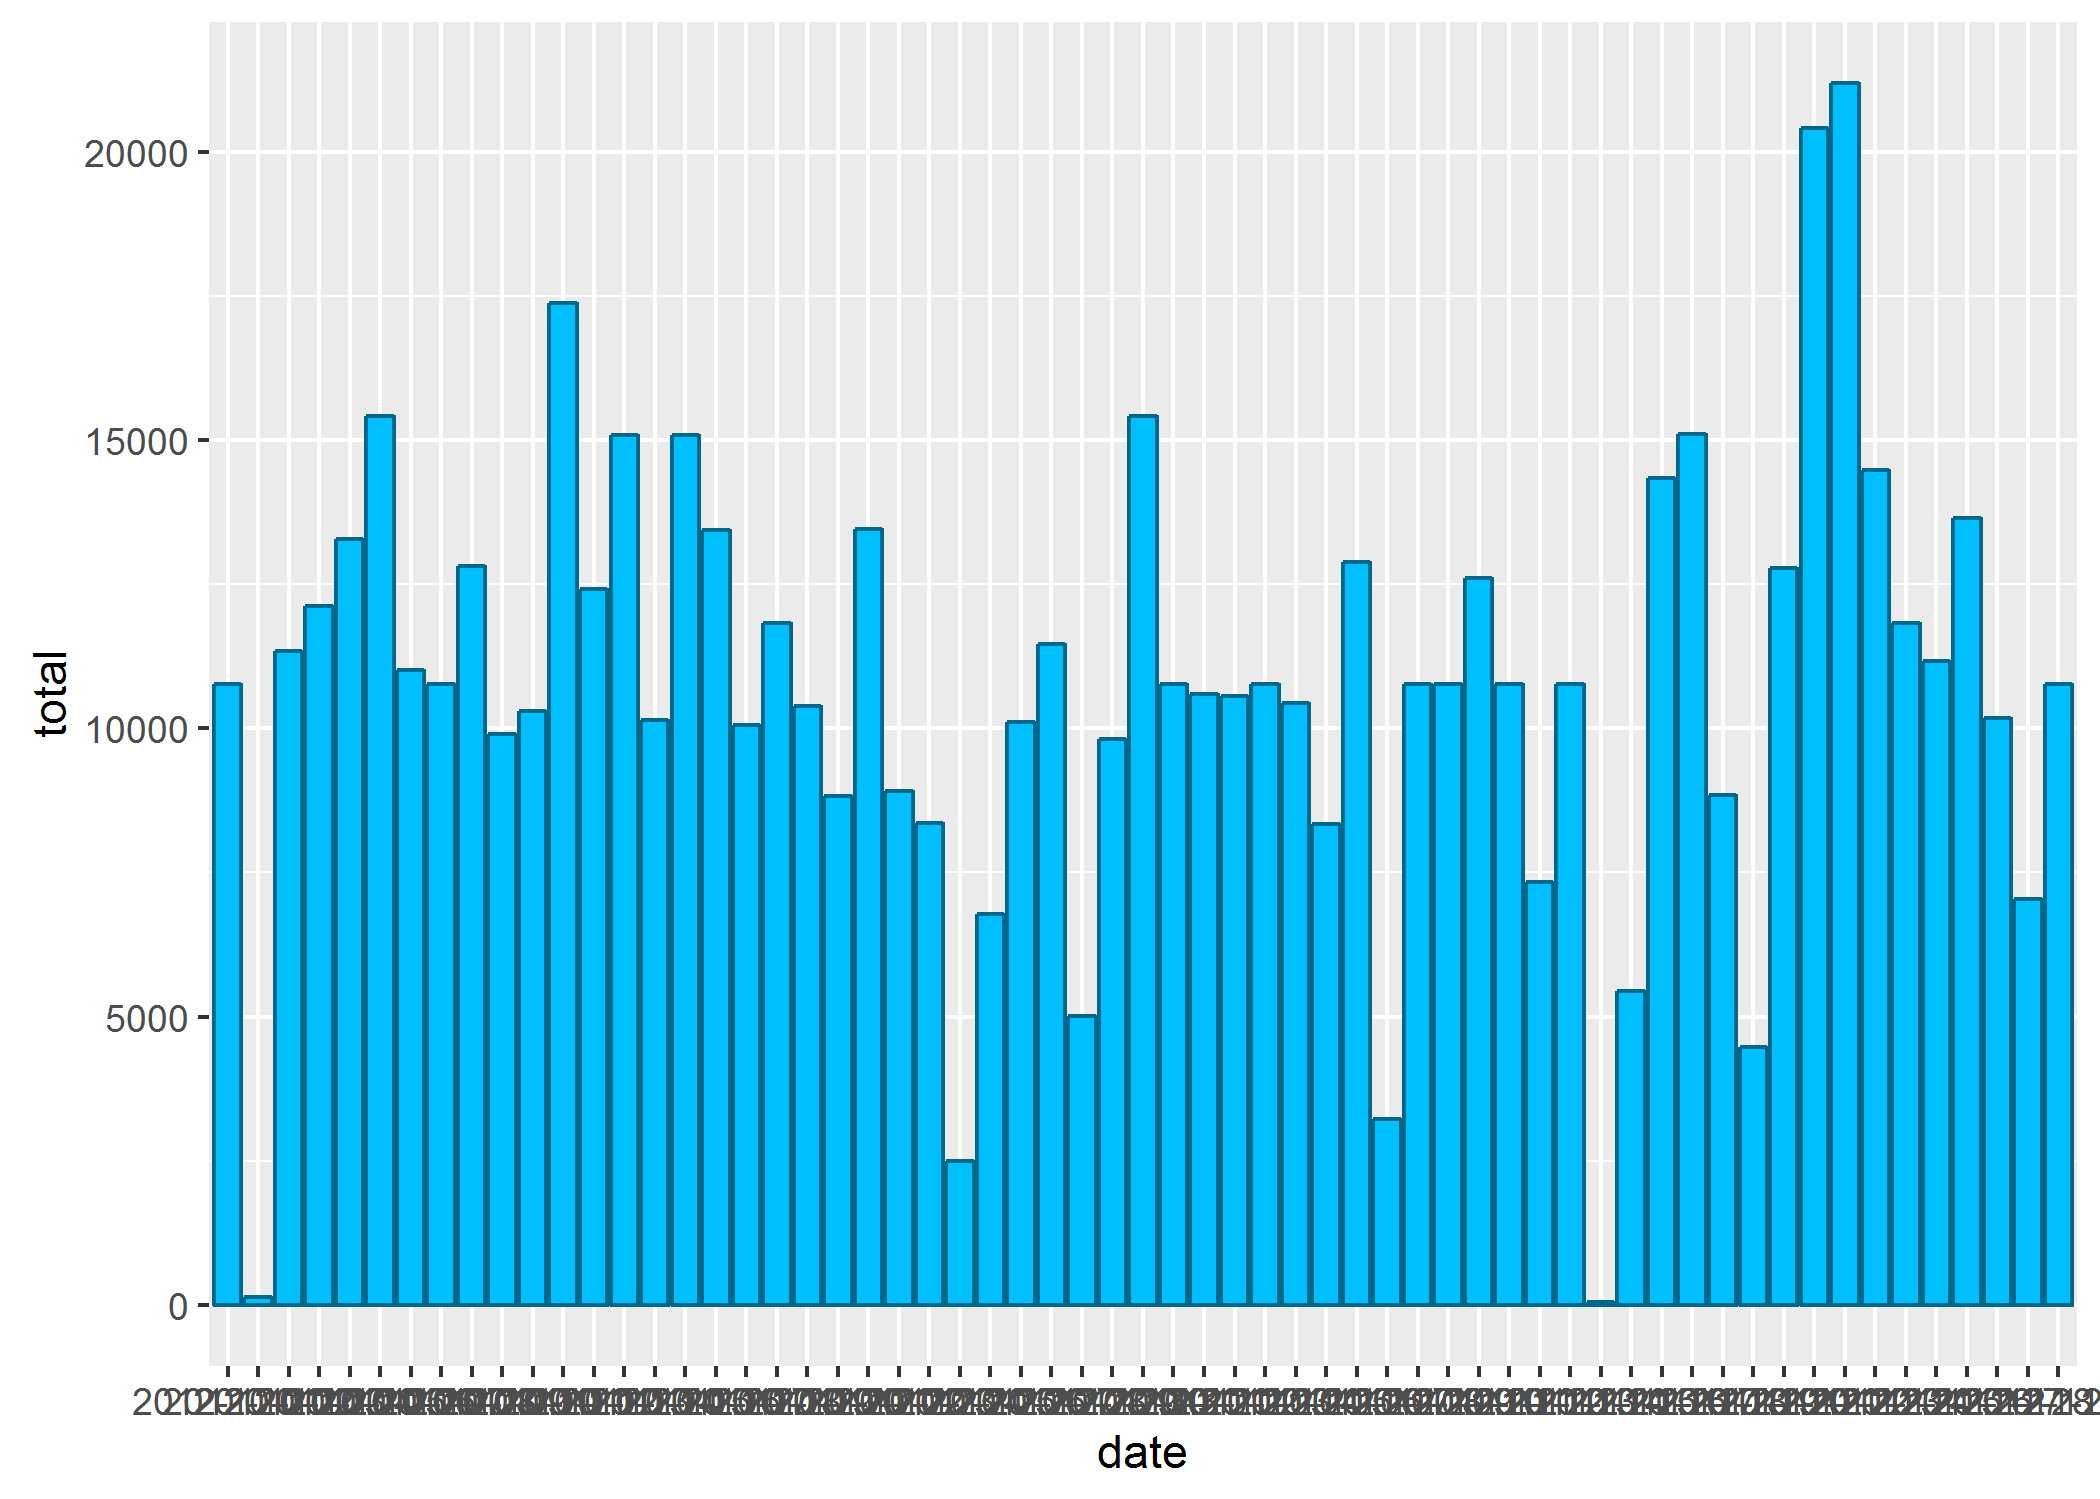
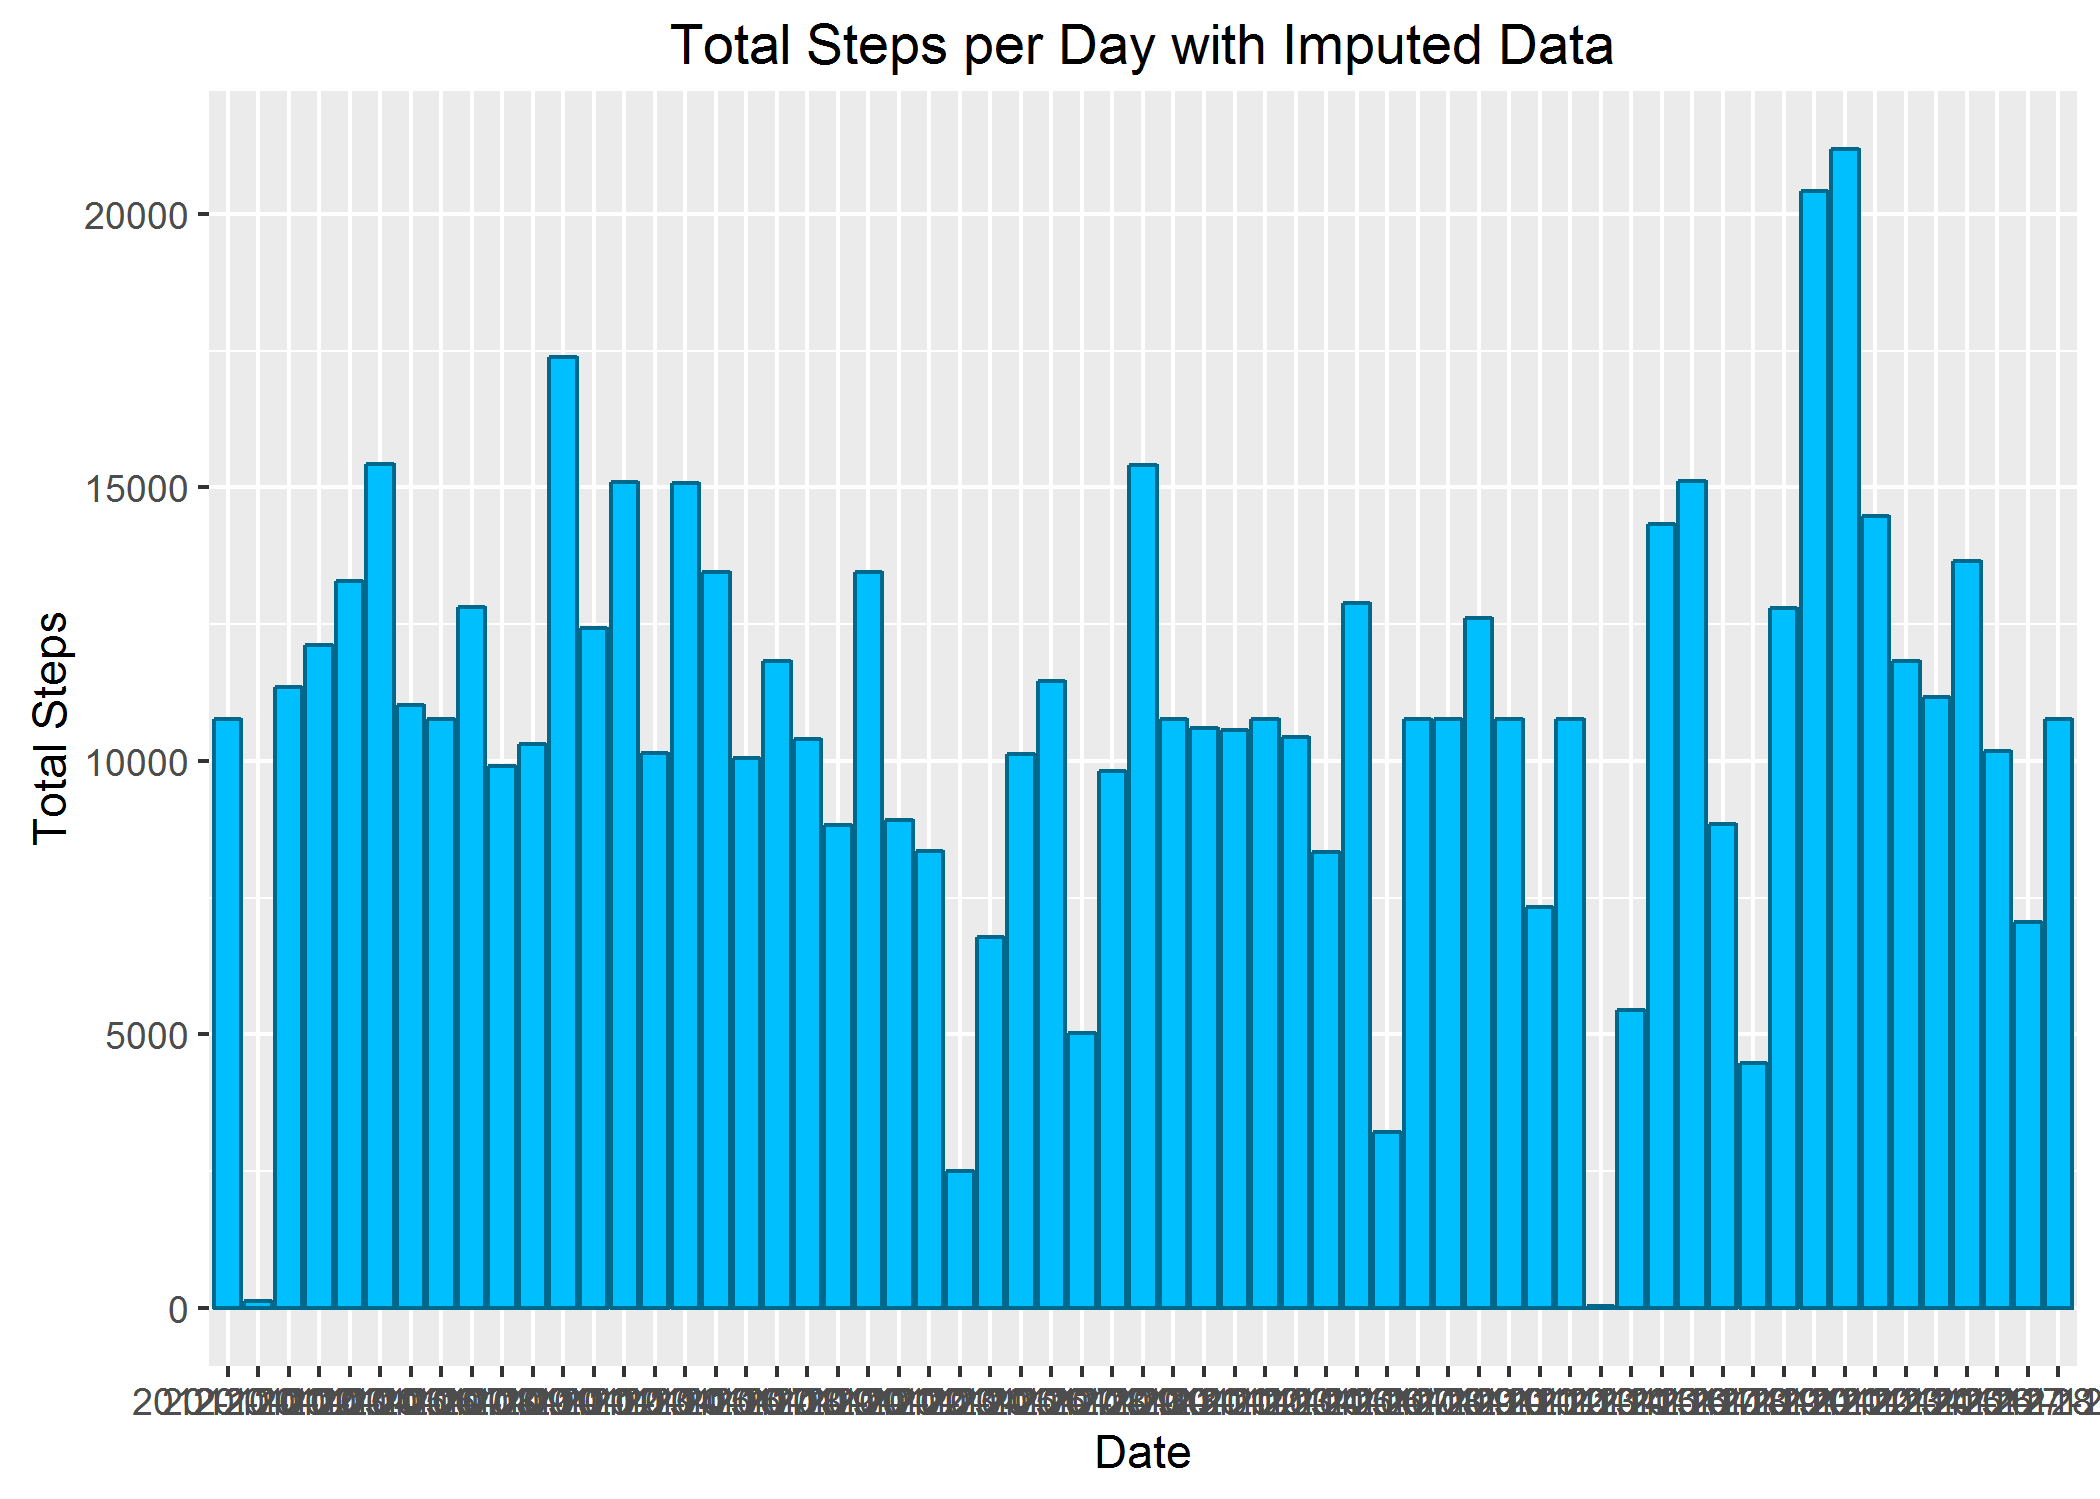
Touchups.

diff --git a/PA1_template.html b/PA1_template.html
@@ -122,8 +122,8 @@ $(document).ready(function () {
 </div>
 
 
-<div id="report-created-on-thu-oct-13-2016" class="section level4">
-<h4>Report created on : Thu Oct 13 2016</h4>
+<div id="report-created-on-fri-oct-14-2016" class="section level4">
+<h4>Report created on : Fri Oct 14 2016</h4>
 </div>
 <div id="loading-and-preprocessing-the-data" class="section level2">
 <h2>Loading and preprocessing the data</h2>
@@ -196,20 +196,9 @@ ImputedData =  ImputedData %&gt;%
         summarise(total = sum(steps))
 
 ggplot(ImputedData, aes(x=date, y=total)) + 
-        geom_bar(stat=&quot;identity&quot;, color=&quot;deepskyblue4&quot;, fill=&quot;deepskyblue&quot;)</code></pre>
[1 lines of base64/hex data omitted]
-<pre class="r"><code>        labs(x=&quot;Date&quot;, y=&quot;Total Steps&quot;, title=&quot;Total Steps per Day with Imputed Data&quot;)</code></pre>
-<pre><code>## $x
-## [1] &quot;Date&quot;
-## 
-## $y
-## [1] &quot;Total Steps&quot;
-## 
-## $title
-## [1] &quot;Total Steps per Day with Imputed Data&quot;
-## 
-## attr(,&quot;class&quot;)
-## [1] &quot;labels&quot;</code></pre>
+        geom_bar(stat=&quot;identity&quot;, color=&quot;deepskyblue4&quot;, fill=&quot;deepskyblue&quot;) +
+        labs(x=&quot;Date&quot;, y=&quot;Total Steps&quot;, title=&quot;Total Steps per Day with Imputed Data&quot;)</code></pre>
[1 lines of base64/hex data omitted]
 <pre class="r"><code>ggsave(&quot;figures/TotalStepsPerDayWithImputedData.png&quot;)</code></pre>
 <pre><code>## Saving 7 x 5 in image</code></pre>
 <pre class="r"><code>summary(ImputedData) #Summary with Imputed data</code></pre>

diff --git a/PA1_template.md b/PA1_template.md
@@ -1,6 +1,6 @@
 # Reproducible Research: Peer Assessment 1
 Mano Yakandawala  
-#### Report created on : Thu Oct 13 2016
+#### Report created on : Fri Oct 14 2016
 
 
 
@@ -133,28 +133,11 @@ ImputedData =  ImputedData %>%
         summarise(total = sum(steps))
 
 ggplot(ImputedData, aes(x=date, y=total)) + 
-        geom_bar(stat="identity", color="deepskyblue4", fill="deepskyblue")
-```
-
-![](PA1_template_files/figure-html/MissingValues-1.png)<!-- -->
-
-```r
+        geom_bar(stat="identity", color="deepskyblue4", fill="deepskyblue") +
         labs(x="Date", y="Total Steps", title="Total Steps per Day with Imputed Data")
 ```
 
-```
-## $x
-## [1] "Date"
-## 
-## $y
-## [1] "Total Steps"
-## 
-## $title
-## [1] "Total Steps per Day with Imputed Data"
-## 
-## attr(,"class")
-## [1] "labels"
-```
+![](PA1_template_files/figure-html/MissingValues-1.png)<!-- -->
 
 ```r
 ggsave("figures/TotalStepsPerDayWithImputedData.png")
